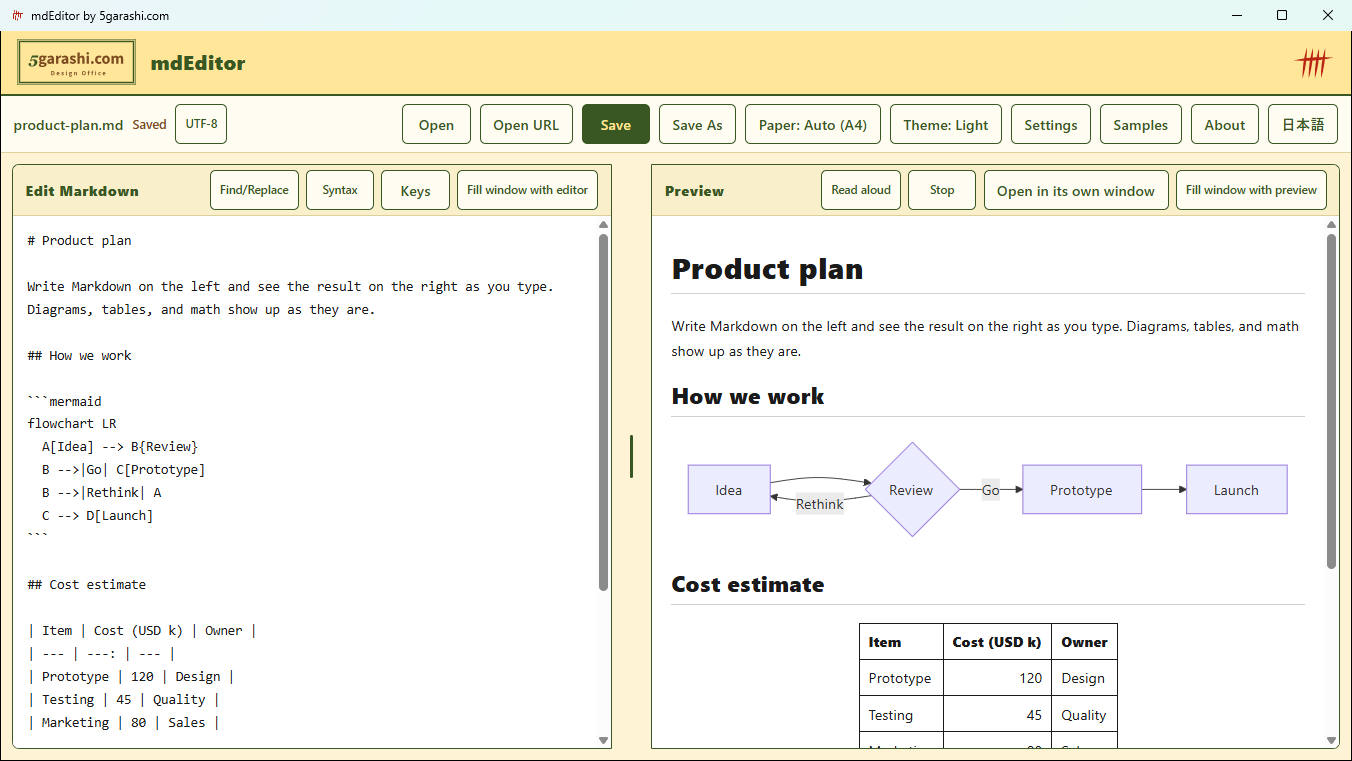
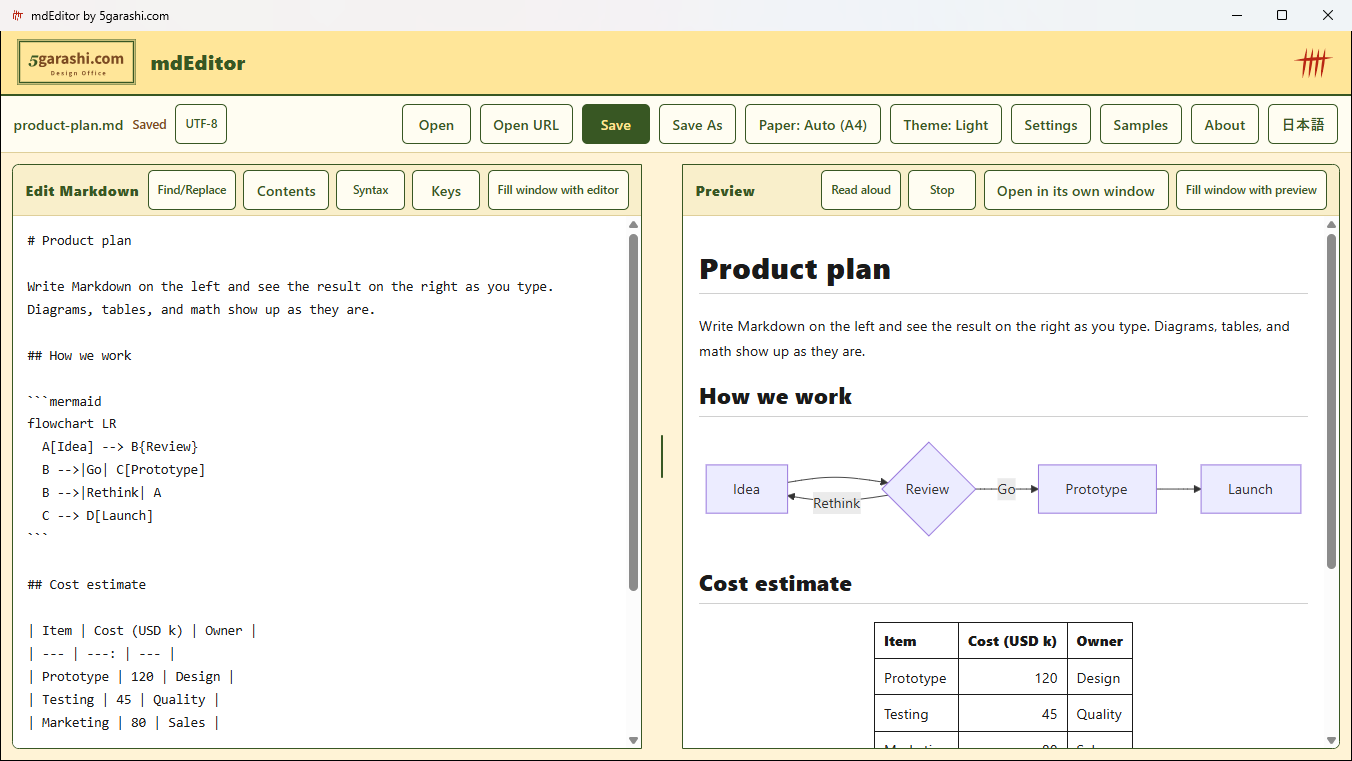
Screenshots and Store listing for 1.0.12, and display notes for the samples
- Retake screenshots 1 to 5 with the 1.0.12 screen, and add 6 (colored code
  and contents), 7 (3D model), and 8 (map and front matter), in Japanese and
  English, to the README and the Store listing.
- Store listing: description, what's new since the Store's 1.0.2, 20
  features, and captions for 8 screenshots, within Partner Center limits.
- samples/diagram-test (ja, en): a note at the top that it assumes mdEditor,
  and the README names these two documents and why (Identity 8-9 (8),
  1-4 (1)). README follows Identity v4.20.0.
- Documentation and a code comment only; the version stays 1.0.12.

Changed region(s): [[0.0932, 0.2116, 0.963, 0.9974], [0.6213, 0.816, 0.8388, 0.9671]]

diff --git a/TextFormats.cs b/TextFormats.cs
@@ -65,10 +65,9 @@ internal static class TableOfContents
     })).Trim();
 }
 
-// Front matter (the YAML block between --- lines at the top), read as YAML and
-// shown the way GitHub shows it: a map is a table with its keys as headers and
-// its values in one row, a list is a one-row table, and nested maps and lists
-// become tables inside the cells.
+// Front matter (the YAML block between --- lines at the top), read as YAML into
+// maps, lists, and text, then shown as a card of key and value rows (ToHtml) or
+// as indented text (ToText).
 internal abstract record YamlValue;
 internal sealed record YamlText(string Text) : YamlValue;
 internal sealed record YamlMap(List<(string Key, YamlValue Value)> Entries) : YamlValue;

diff --git a/store/STORE-LISTING.md b/store/STORE-LISTING.md
@@ -27,7 +27,10 @@ mdEditor is a Markdown editor for Windows that shows your writing as a finished 
 - Live preview on the right, your text on the left. Both scroll together.
 - Two displays? Open the preview in its own window and put it on the second screen, maximized or full screen. It still scrolls with the editor, line by line, and Save, Find, and every other command work from either window.
 - Also a Markdown viewer. Set mdEditor as the app for .md files, or drop a file onto it, and expand the preview to fill the window for comfortable reading, with no editing in the way. Links to headings and to other Markdown files in the same folder work too.
-- Draw flowcharts, sequence diagrams, Gantt charts, and pie charts with a few lines of text (Mermaid). Write formulas the way you say them (KaTeX).
+- Draw flowcharts, sequence diagrams, Gantt charts, and pie charts with a few lines of text (Mermaid), and Graphviz diagrams too. Write formulas the way you say them (KaTeX).
+- Turn 3D models (STL) with the mouse, and draw maps (GeoJSON) on a simple world map, all offline. Allow it, and a detailed OpenStreetMap map is loaded for that document.
+- Reads Markdown the way GitHub does: alerts, front matter, math blocks, emoji short names, collapsible sections, and the HTML GitHub allows. Scripts and other unsafe HTML are removed.
+- Code is colored for about 40 languages, and Contents builds a table of contents from your headings. Videos in a document play in the preview without sound.
 - Save a PDF that looks exactly like the preview, diagrams and math included. A4 or Letter.
 - Open Word, HTML, web pages, e-mail (.eml), CSV, JSON, XML, Jupyter Notebooks, and images as Markdown, and save to PDF, HTML, PNG, Word, CSV, JSON, Jupyter Notebook, or plain text. The original file is never changed.
 - Drop or paste pictures into the editor; they are saved beside your document.
@@ -41,7 +44,7 @@ mdEditor is a Markdown editor for Windows that shows your writing as a finished 
 **Private and quiet**
 - Your documents never leave your PC. No tracking, no accounts, no ads.
 - Diagrams and math work offline.
-- Internet images in a document load only when you allow them.
+- Internet images and videos in a document load only when you allow them.
 
 **Made for everyone**
 - Everything works from the keyboard, with custom shortcuts.
@@ -50,7 +53,7 @@ mdEditor is a Markdown editor for Windows that shows your writing as a finished 
 Available in Japanese and English. Made by 5garashi.com Design Office. Open About in the app to find the company, support, and privacy policy links.
 
 **What's new in this version:**
-Colored code: code blocks with a language name, such as Python, JavaScript, C#, PowerShell, or SQL, are colored in the preview and in saved PDF, PNG, HTML, and Word files. Contents inserts a table of contents built from your headings and updates it with one press; its links work in PDF and Word too. Graphviz (DOT) diagrams are drawn offline. Open more formats: Word, HTML and web pages, e-mail, CSV and TSV, JSON, XML, Jupyter Notebooks, and images, all as Markdown. Save As now lists every format, including Word, PNG, CSV, JSON, Jupyter Notebook, and text without Markdown marks. Drop or paste pictures into the editor. Internet images load only after you allow them. Choose the read-aloud language and voice. mdEditor now appears in Open with for these file types.
+3D models (STL) you can turn, and maps (GeoJSON) drawn offline, with a detailed OpenStreetMap map when you allow it. GitHub-style Markdown: alerts, front matter shown as a tidy list, math blocks, emoji short names, collapsible sections, and the safe HTML GitHub allows. Videos in a document play in the preview. Colored code for about 40 languages, kept in PDF, PNG, HTML, and Word. Contents builds a table of contents from your headings. Graphviz diagrams are drawn offline. Open Word, HTML and web pages, e-mail, CSV, JSON, XML, Jupyter Notebooks, and images as Markdown, and pick any format in Save As. Drop or paste pictures into the editor. Internet images and videos load only after you allow them. mdEditor now appears in Open with.
 
 **Features (bullets):**
 - Live side-by-side preview that scrolls with you
@@ -65,10 +68,14 @@ Colored code: code blocks with a language name, such as Python, JavaScript, C#, 
 - Open Word, HTML, web pages, e-mail, CSV, JSON, Jupyter Notebooks, and images
 - Save as Word, PNG, HTML, CSV, JSON, Jupyter Notebook, or plain text
 - Drop or paste pictures straight into your document
-- Internet images load only when you allow them
+- Internet images and videos load only when you allow them
 - Colored code for about 40 languages, kept in PDF and Word
 - Table of contents from your headings, updated with one press
 - Graphviz (DOT) diagrams, drawn offline
+- 3D models (STL) you can turn, shown offline
+- Maps (GeoJSON), with OpenStreetMap when you allow it
+- GitHub-style alerts, front matter, and safe HTML
+- Videos play right in the preview
 
 **Search terms (up to 7):** markdown editor, preview, mermaid, diagram, PDF, second display, jupyter notebook
 
@@ -82,6 +89,9 @@ Colored code: code blocks with a language name, such as Python, JavaScript, C#, 
 3. `docs/images/3-preview-window.en.png` — Put the preview on a second display to keep writing and reading apart. It scrolls along with your editing.
 4. `docs/images/4-syntax.en.png` — The Markdown quick reference (F1). Insert puts the example at the cursor.
 5. `docs/images/5-save-as.en.png` — Save As writes Markdown, text, PDF, HTML, PNG, Word, CSV, TSV, JSON, or Jupyter Notebook. Word, HTML, CSV, e-mail, Jupyter Notebook, and more open too.
+6. `docs/images/6-code-toc.en.png` — Code with a language name is shown in color. Contents builds a table of contents from your headings.
+7. `docs/images/7-3d-model.en.png` — A 3D model written in STL turns as you drag it. It shows without an internet connection.
+8. `docs/images/8-map.en.png` — A GeoJSON map is drawn on a detailed OpenStreetMap map once you allow it. YAML front matter at the top becomes a list of keys and values.
 
 ## Store art / ストア用の画像
 
@@ -114,7 +124,10 @@ mdEditor は、左で書くと右にすぐ仕上がりが表示される Windows
 - 左が文章、右が仕上がり。スクロールが連動します。
 - ディスプレイが 2 台なら、プレビューだけを別のウィンドウにして 2 台目に表示できます。最大化しても全画面にしても、編集欄と同じ行を表示し続けます。保存や検索などの操作は、どちらのウィンドウからでも使えます。
 - ビューアとしても使えます。`.md` ファイルの既定アプリにするか、ファイルをドロップして開き、プレビューをウィンドウいっぱいに広げれば、編集欄なしで読めます。見出しへのリンクや、同じフォルダーのほかの Markdown ファイルへのリンクも使えます。
-- 数行のテキストで、フローチャート・シーケンス図・ガントチャート・円グラフを描けます（Mermaid）。数式も書いたまま表示します（KaTeX）。
+- 数行のテキストで、フローチャート・シーケンス図・ガントチャート・円グラフを描けます（Mermaid）。Graphviz の図も描けます。数式も書いたまま表示します（KaTeX）。
+- 3D モデル（STL）をマウスで回して見られ、地図（GeoJSON）を簡単な世界地図の上に描けます。どちらもオフラインです。許可すると、その文書だけ OpenStreetMap の詳しい地図を読み込みます。
+- GitHub と同じように Markdown を表示します。注意書き・フロントマター・数式のコードブロック・絵文字の短縮名・折りたたみと、GitHub が許している HTML に対応します。スクリプトなどの危ない HTML は取り除きます。
+- 約 40 の言語のコードを色分けし、「目次」ボタンで見出しから目次を作れます。文書の中の動画は、プレビューで音を消して再生します。
 - プレビューそのままの見た目で PDF に保存。図も数式も含みます。用紙は A4 と Letter。
 - Word・HTML・Web ページ・メール（.eml）・CSV・JSON・XML・Jupyter Notebook・画像を Markdown として開き、PDF・HTML・PNG・Word・CSV・JSON・Jupyter Notebook・テキストに保存できます。元のファイルは書き換えません。
 - 画像は編集画面にドロップするか貼り付けるだけで、文書の横に保存して入れます。
@@ -128,7 +141,7 @@ mdEditor は、左で書くと右にすぐ仕上がりが表示される Windows
 **静かで、安心**
 - 文書は PC の外に出ません。計測も、アカウントも、広告もありません。
 - 図と数式はオフラインで表示できます。
-- 文書の中のインターネット上の画像は、許可したときだけ読み込みます。
+- 文書の中のインターネット上の画像や動画は、許可したときだけ読み込みます。
 
 **だれにでも使いやすく**
 - 全操作をキーボードで行え、ショートカットも変更できます。
@@ -137,7 +150,7 @@ mdEditor は、左で書くと右にすぐ仕上がりが表示される Windows
 日本語と英語に対応します。5garashi.com Design Office が作りました。アプリの「このアプリについて」から、会社紹介・サポート・プライバシーポリシーを開けます。
 
 **このバージョンの新機能:**
-コードの色分け：Python・JavaScript・C#・PowerShell・SQL など、言語名を書いたコードブロックを色分けして表示し、PDF・PNG・HTML・Word に保存しても色が残ります。「目次」ボタンで、見出しから目次を作って入れ、押し直すと新しくなります（目次のリンクは PDF・Word でも使えます）。Graphviz（DOT）の図をオフラインで描けるようになりました。Word・HTML・Web ページ・メール・CSV・TSV・JSON・XML・Jupyter Notebook・画像を、Markdown として開けるようになりました。「名前を付けて保存」で、Word・PNG・CSV・JSON・Jupyter Notebook・記号なしのテキストなど、すべての形式を選べます。画像は、編集画面にドロップするか貼り付けるだけで文書に入ります。インターネット上の画像は、許可したときだけ読み込みます。読み上げの言語と音声を選べるようになりました。これらの形式で、「プログラムから開く」に mdEditor が出ます。
+3D モデル（STL）をマウスで回して見られ、地図（GeoJSON）をオフラインで描けるようになりました。許可すると OpenStreetMap の詳しい地図も使えます。GitHub と同じ書き方に対応しました（注意書き、項目の一覧として表示するフロントマター、数式のコードブロック、絵文字の短縮名、折りたたみ、GitHub が許している HTML）。文書の中の動画をプレビューで再生できます。約 40 の言語のコードを色分けし、PDF・PNG・HTML・Word に保存しても色が残ります。「目次」ボタンで見出しから目次を作れます。Graphviz の図をオフラインで描けます。Word・HTML・Web ページ・メール・CSV・JSON・XML・Jupyter Notebook・画像を Markdown として開け、「名前を付けて保存」ですべての形式を選べます。画像はドロップや貼り付けで文書に入ります。インターネット上の画像と動画は、許可したときだけ読み込みます。「プログラムから開く」に mdEditor が出ます。
 
 **製品の機能（箇条書き）:**
 - 書きながら横で仕上がりを確認。スクロールも連動
@@ -152,10 +165,14 @@ mdEditor は、左で書くと右にすぐ仕上がりが表示される Windows
 - Word・HTML・Web ページ・メール・CSV・JSON・Jupyter Notebook・画像を開ける
 - Word・PNG・HTML・CSV・JSON・Jupyter Notebook・テキストに保存
 - 画像はドロップや貼り付けで、そのまま文書に
-- ネット上の画像は、許可したときだけ読み込む
+- ネット上の画像と動画は、許可したときだけ読み込む
 - 約 40 の言語のコードを色分け。PDF・Word にも色が残る
 - 見出しから目次を作り、ボタン 1 つで新しくする
 - Graphviz（DOT）の図をオフラインで表示
+- 3D モデル（STL）を回して確認。オフラインで表示
+- 地図（GeoJSON）。許可すると OpenStreetMap の地図も
+- GitHub と同じ注意書き・フロントマター・安全な HTML
+- 文書の中の動画をプレビューで再生
 
 **検索用語（7つまで）:** Markdown, マークダウン, エディタ, プレビュー, PDF, 数式, デュアルモニター
 
@@ -165,10 +182,16 @@ mdEditor は、左で書くと右にすぐ仕上がりが表示される Windows
 3. `docs/images/3-preview-window.ja.png` — 2 台目のディスプレイに置いて、書く画面と見る画面を分けられます。スクロールは編集と連動します。
 4. `docs/images/4-syntax.ja.png` — Markdown の書き方の一覧（F1）。「挿入」を押すと、カーソルの位置に例が入ります。
 5. `docs/images/5-save-as.ja.png` — 「名前を付けて保存」で、Markdown・テキスト・PDF・HTML・PNG・Word・CSV・TSV・JSON・Jupyter Notebook を選べます。Word・HTML・CSV・メール・Jupyter Notebook などのファイルも開けます。
+6. `docs/images/6-code-toc.ja.png` — 言語名を書いたコードを色分けして表示します。「目次」ボタンで、見出しから目次を作って入れます。
+7. `docs/images/7-3d-model.ja.png` — STL で書いた 3D モデルを、ドラッグで回して確かめられます。インターネットにつながなくても表示します。
+8. `docs/images/8-map.ja.png` — GeoJSON の地図は、許可すると OpenStreetMap の詳しい地図の上に描きます。先頭の YAML は、項目と値の一覧になります。
 
 ## Before you submit / 提出前の確認
 
 - Reserve the name in Partner Center and confirm it is available. Use the same spelling ("5garashi.com Design Office") in the Store, the app, and the website.
 - Replace the privacy or support links if the final URLs differ. The company URL in the app is `https://www.5garashi.com/`.
 - "Worldwide" distribution and "all languages" are different settings. The app supports Japanese and English only.
-- The screenshots are in `docs/images/` (taken with 1.0.8 on a 1366 x 768 display). Retake them when the screen changes.
+- The screenshots are in `docs/images/` (taken with 1.0.12 on a 1366 x 768 window, 2026-10-18). Retake them when the screen changes.
+- Screenshot 8 shows OpenStreetMap map tiles. Keep the credit "© OpenStreetMap contributors" visible; do not crop it out.
+  スクリーンショット 8 には OpenStreetMap の地図が写っています。右下の「© OpenStreetMap contributors」を切り取らないでください。
+- Partner Center limits: What's new 1,500 characters, each feature 200 characters (up to 20), each screenshot caption 200 characters (up to 10 screenshots).

diff --git a/samples/diagram-test.md b/samples/diagram-test.md
@@ -16,6 +16,9 @@ license: MIT
 -->
 # 図・チャート表示テスト
 
+> [!NOTE]
+> この文書は mdEditor での表示を前提にしています。GitHub で開くと、Graphviz（` ```dot `）と PlantUML の図はコードのまま表示され、同じフォルダーの動画はリンクになります。表示の確認は mdEditor で行ってください（Identity 8-9 (8)）。
+
 mdEditor のプレビューで、各種ダイアグラムやチャートが正しく表示されるかを確認するためのテスト文書です。
 各セクションの「期待される表示」と実際のプレビューを見比べてください。
 

diff --git a/samples/diagram-test.en.md b/samples/diagram-test.en.md
@@ -16,6 +16,9 @@ license: MIT
 -->
 # Diagram and Chart Rendering Test
 
+> [!NOTE]
+> This document assumes it is shown in mdEditor. On GitHub, the Graphviz (` ```dot `) and PlantUML diagrams stay as code, and the video in the same folder is a link. Check the rendering in mdEditor (Identity 8-9 (8)).
+
 This test document checks that diagrams and charts render correctly in the mdEditor preview.
 Compare the "Expected" note in each section with the actual preview.
 
